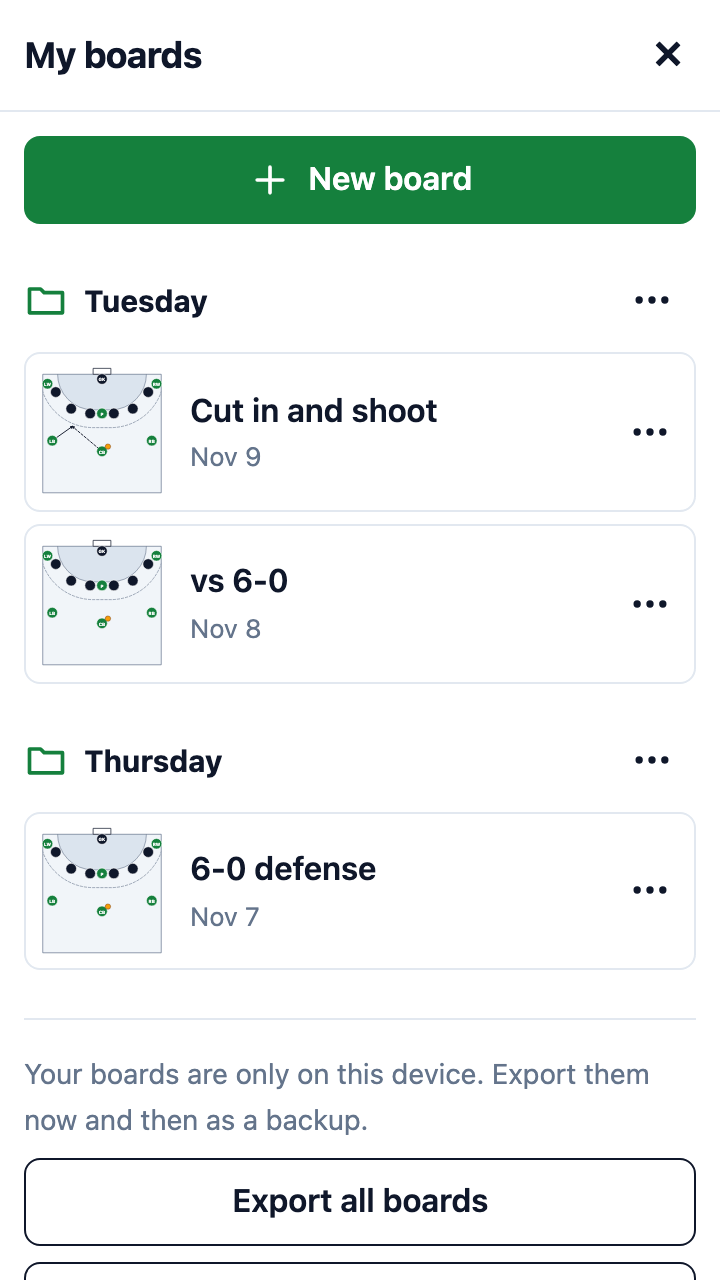
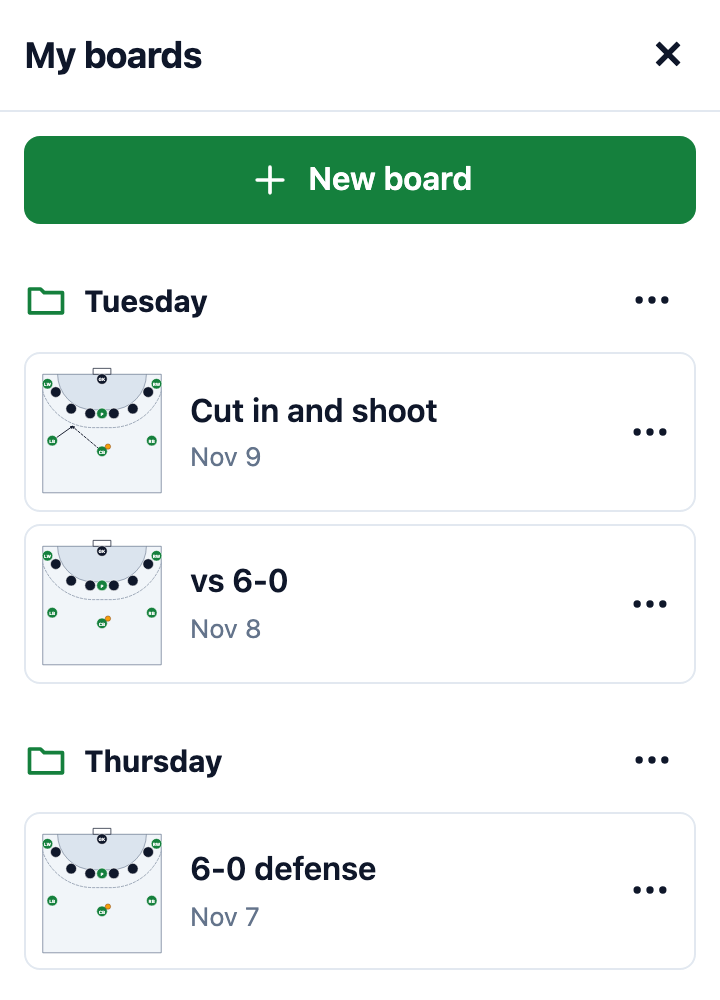
How the board works: My boards ends after its last folder (720×1000)

diff --git a/src/data/howItWorks.ts b/src/data/howItWorks.ts
@@ -57,7 +57,7 @@ export async function drawing(lang: string, name: DrawingName): Promise<Board> {
 export const shots = {
   play: { width: 720, height: 224 },
   viewer: { width: 720, height: 1280 },
-  "my-boards": { width: 720, height: 1280 },
+  "my-boards": { width: 720, height: 1000 },
   "open-link": { width: 720, height: 680 },
 } as const;
 
